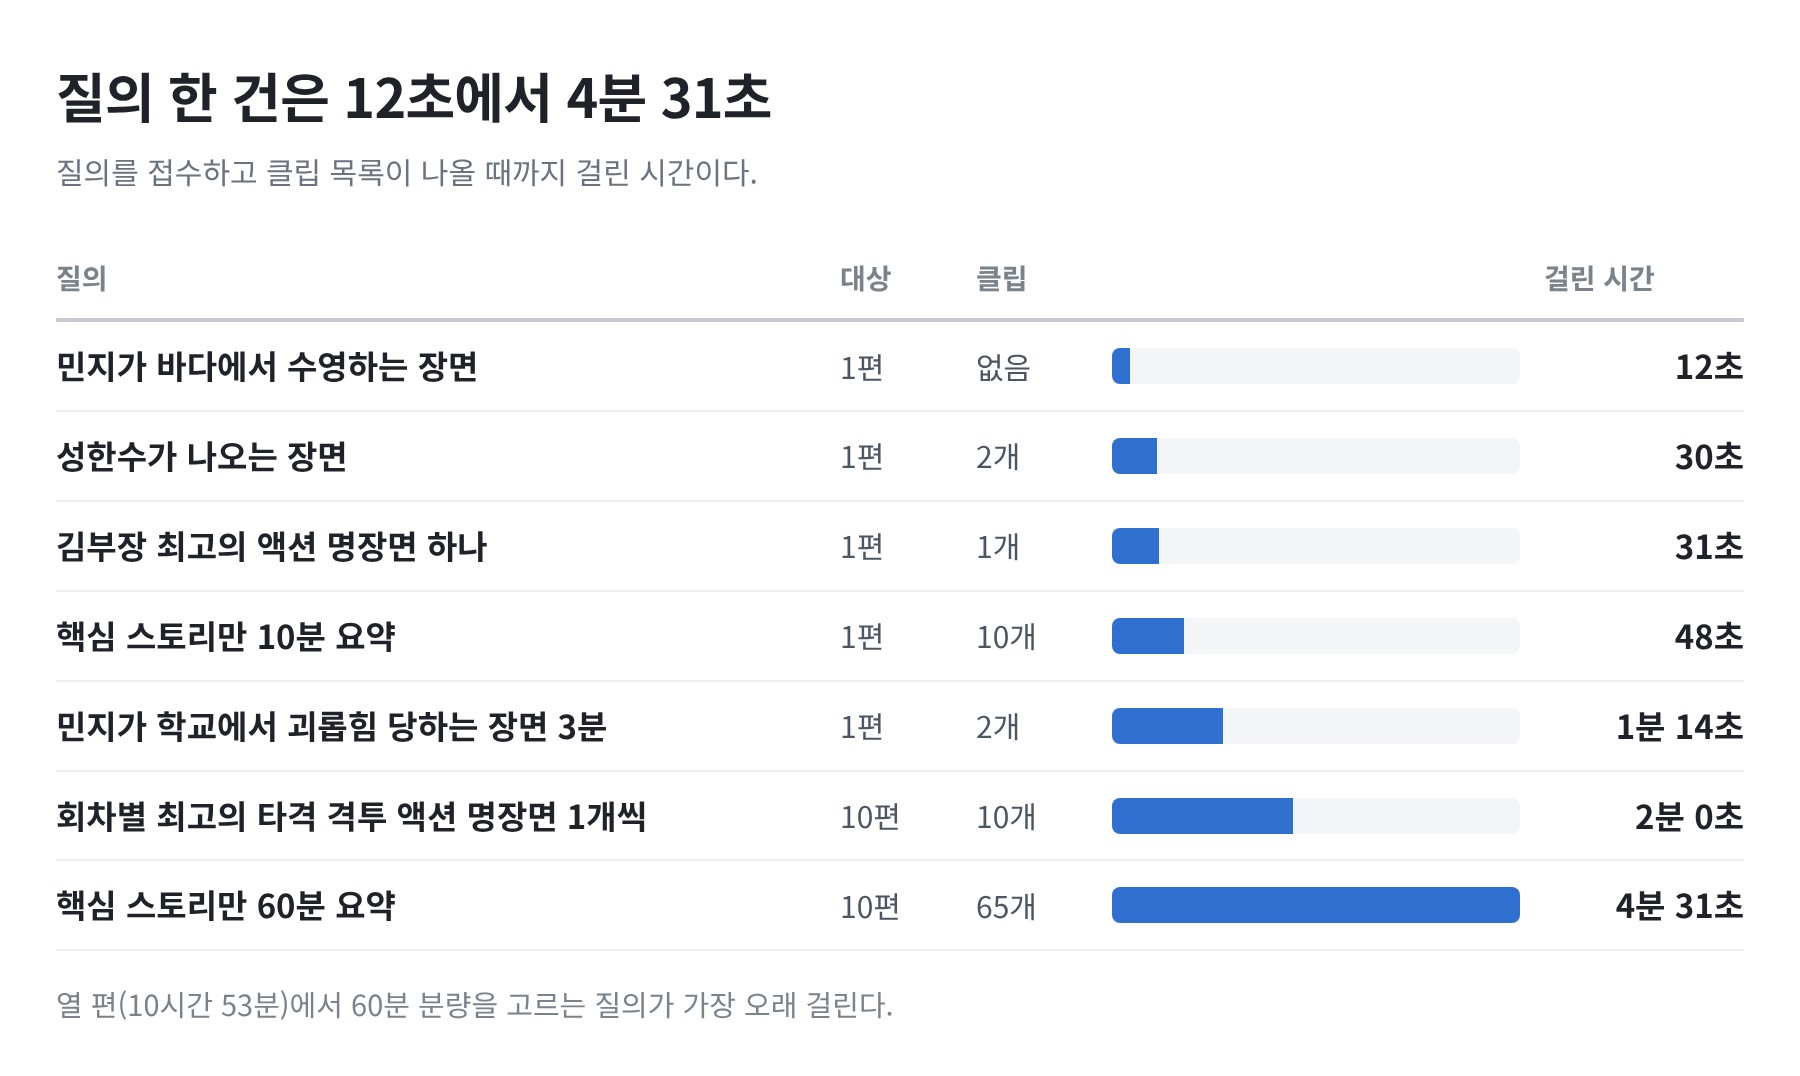
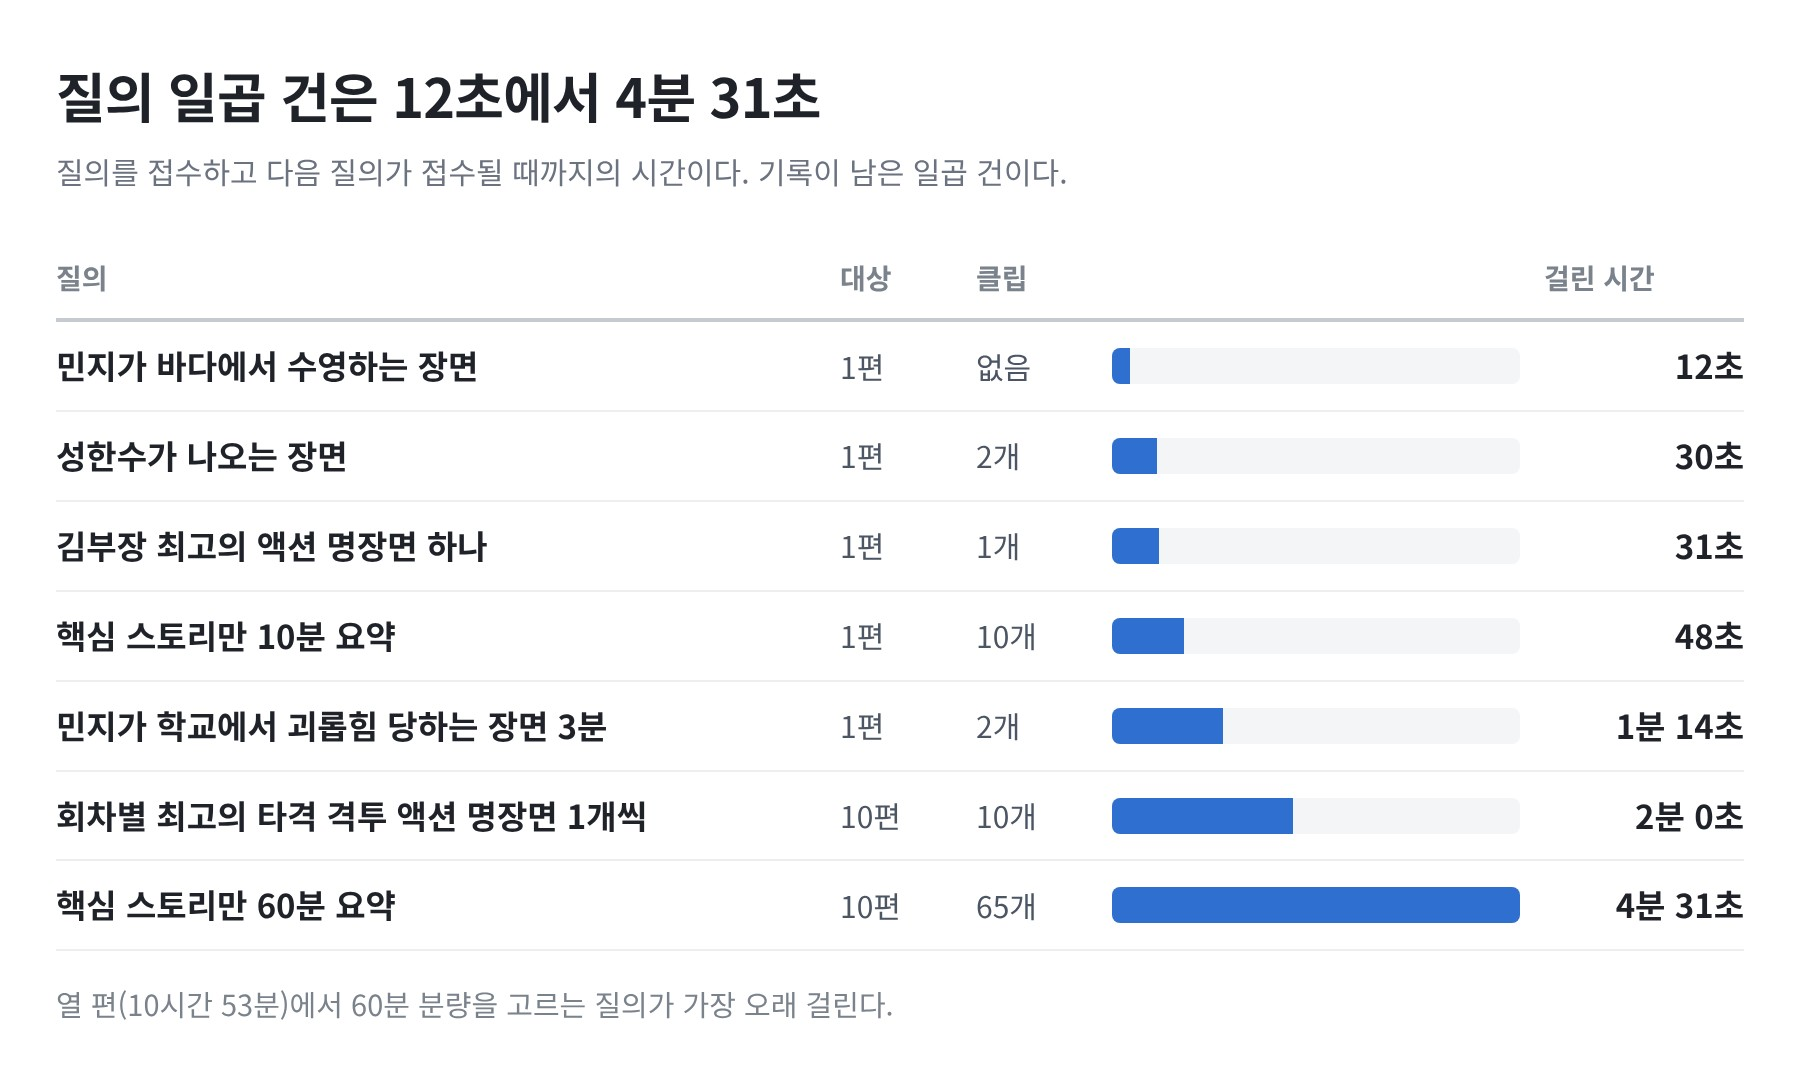
docs(blog): 10 성능 벤치마크 글의 확인 범위와 측정 전제를 정확히 적는다 [skip-notion]
트레일러 질의를 원문으로 싣고, 질의별 확인 방법과 편성 시간 계산의 전제를 적는다.
분량 표의 제목을 수치에 맞게 고친다.

Changed region(s): [[0.0933, 0.0613, 0.4667, 0.1227], [0.1556, 0.1533, 0.5911, 0.184]]

diff --git a/blog/2026-07-14-10-방송-ai-서비스-성능-벤치마크-결과-분석-1건.md b/blog/2026-07-14-10-방송-ai-서비스-성능-벤치마크-결과-분석-1건.md
@@ -86,7 +86,7 @@ last_update:
 **이 값을 읽을 때 알아 둘 것**
 
 - 한 편을 처음부터 끝까지 한 번에 돌려 잰 값이 아니다. 9월의 추출·음성 기록과 10월의 화면 기록을 더했다.
-- 화면 분석은 편과 편 사이의 대기 시간이 섞여 있을 수 있다. 실제보다 길게 잡힌다.
+- 화면 분석은 편과 편 사이의 대기 시간이 섞여 있을 수 있다. 그만큼 실제보다 길게 잡힌다.
 - 화자에 이름을 붙이는 단계는 넣지 않았다.
 
 ##### 3. 편성 응답 시간
@@ -99,7 +99,10 @@ last_update:
 - 열 편 전체에서 60분 분량을 고르는 질의가 **4분 31초** 로 가장 오래 걸린다. 원본 약 11시간을 읽고 클립 65개를 고른 시간이다.
 - 맞는 장면이 없는 질의는 12초 만에 끝난다.
 
-질의 열두 건을 연달아 실행한 기록에서 쟀다. 한 질의가 접수된 시각부터 다음 질의가 접수된 시각까지다. 완료 시각은 따로 저장되지 않아, 묶음의 마지막 질의와 따로 실행한 질의는 걸린 시간이 남아 있지 않다.
+질의 열두 건을 연달아 실행한 기록에서 쟀다. 한 질의가 접수된 시각부터 다음 질의가 접수된 시각까지다.
+
+- 완료 시각은 따로 저장되지 않는다. 앞 질의가 끝난 뒤 바로 다음 질의가 들어갔다고 보고 계산한 값이다. 사이에 대기가 있었다면 실제보다 길게 잡힌다.
+- 같은 이유로 묶음의 마지막 질의와 따로 실행한 질의는 걸린 시간이 남아 있지 않다. 위 그림은 광고 지점 질의를 뺀 일곱 건이다.
 
 ##### 4. 편성 결과 확인
 
@@ -107,21 +110,32 @@ last_update:
 
 ![image](/img/blog/10-방송-ai-서비스-성능-벤치마크-결과-분석-1건/img-03.jpg)
 
-질의마다 결과가 한 줄씩 쌓인다. 한 줄을 열어 클립을 누르면 원본 영상의 그 구간이 바로 재생된다. 질의 다섯 가지의 클립을 재생해 확인했다.
+질의마다 결과가 한 줄씩 쌓인다. 한 줄을 열어 클립을 누르면 원본 영상의 그 구간이 바로 재생된다. 질의 다섯 가지를 확인했다.
 
 | 질의 | 대상 | 결과 | 요청대로 나왔나 |
 | --- | --- | --- | --- |
 | 핵심 스토리만 60분 요약 | 10편 | 60분 40초, 클립 65개. 열 편 모두에서, 본편만 | 그렇다 |
 | 주강찬이 처음 등장하는 장면 | 3편 | 1화의 첫 등장 장면 1개 | 그렇다 |
 | 회차별 최고의 타격 격투 액션 명장면 1개씩 | 10편 | 회차마다 1개씩 10개. 모두 격투 장면 | 그렇다 |
-| 민지가 바다에서 수영하는 장면 | 1편 | 클립 0개. 영상에 없는 장면이다 | 그렇다 |
-| 10부작 트레일러 2분. 자극적인 순간과 웃기거나 설레는 순간을 섞어 짧게 | 10편 | 2분 24초, 클립 13개. 모두 1~3화의 격투·총격 장면 | 일부만 |
+| 민지가 바다에서 수영하는 장면 | 1편 | 클립 0개. 분석 기록에 그런 장면이 없다 | 그렇다 |
+| 10부작 트레일러 2분 (전문은 아래) | 10편 | 2분 24초, 클립 13개. 모두 1~3화의 격투·총격 씬에서 나왔다 | 일부만 |
+
+확인한 방법은 질의마다 다르다.
+
+- **60분 요약**: 분량, 회차 분포, 본편 여부를 편성 기록으로 확인했다. 고른 65개가 핵심 줄거리인지는 판정하지 않았다.
+- **첫 등장 장면**: 클립을 재생하고, 그 인물이 분석 기록에 처음 나오는 시점과 대조했다.
+- **액션 명장면, 트레일러**: 클립을 모두 재생했다.
+- **없는 장면**: 1화의 씬 설명을 모두 훑어 그런 장면이 없는 것을 확인했다.
 
 아래는 "회차별 액션 명장면" 질의가 고른 클립 열 개를 재생한 화면이다. 1화부터 10화까지 하나씩이다.
 
 ![image](/img/blog/10-방송-ai-서비스-성능-벤치마크-결과-분석-1건/img-04.jpg)
 
-트레일러 질의는 지시가 여러 개 겹쳐 있다. 짧은 클립 여러 개와 자극적인 장면이라는 지시는 지켰고, 세 가지는 지키지 못했다.
+트레일러 질의의 전문은 아래와 같다. 지시가 여러 개 겹쳐 있다.
+
+> 10부작 트레일러 2분. 보는 사람을 몰입시키는 순간만 고른다. 자극적인 순간(격투, 총격, 위협, 폭로, 절규, 충돌)과 웃기거나 설레는 순간(엉뚱한 대사, 어이없는 상황, 두 사람의 미묘한 눈빛, 고백, 스킨십)을 고르게 섞는다. 설명 장면과 일상 장면은 제외. 여러 장면을 많이 짧게짧게, 스토리 흐름 상관없이 구성.
+
+짧은 클립 여러 개와 자극적인 장면이라는 지시는 지켰고, 세 가지는 지키지 못했다.
 
 - 분량이 목표보다 20% 길다.
 - 13개가 모두 1~3화에서 나왔다. 4화부터 10화까지는 한 장면도 없다.
@@ -129,7 +143,9 @@ last_update:
 
 ![image](/img/blog/10-방송-ai-서비스-성능-벤치마크-결과-분석-1건/img-05.jpg)
 
-**분량은 목표가 길수록 잘 맞는다**
+**목표 분량과 결과**
+
+분량을 지정한 질의 다섯 건의 결과다. 60분 목표는 1% 차이로 맞고, 10분 이하 목표는 14~21% 어긋난다.
 
 | 목표 분량 | 결과 | 차이 |
 | --- | --- | --- |
@@ -161,8 +177,8 @@ last_update:
 「김부장」 10편의 처리 기록으로 처리 시간을 재고 목표와 대조했다.
 
 - 분석 처리 시간은 영상 1시간당 11분 27초로, 목표 20분 안이다. 추출, 음성 분석, 화면 분석을 더한 값이다.
-- 편성 응답 시간은 12초에서 4분 31초 사이다.
-- 질의 다섯 가지 가운데 넷이 요청대로 나왔고, 지시가 여러 개 겹친 하나는 일부만 반영됐다.
+- 편성 응답 시간은 기록이 남은 일곱 건에서 12초에서 4분 31초 사이다.
+- 질의 다섯 가지 가운데 넷이 확인한 범위에서 요청대로 나왔고, 지시가 여러 개 겹친 하나는 일부만 반영됐다.
 - 장면 분석 정확도(F1)는 아직 측정하지 않았다.
 
 처리 시간은 실행 기록으로 계산한 값이다. 처리 시간과 정확도 모두 공인시험에서 측정한다.
